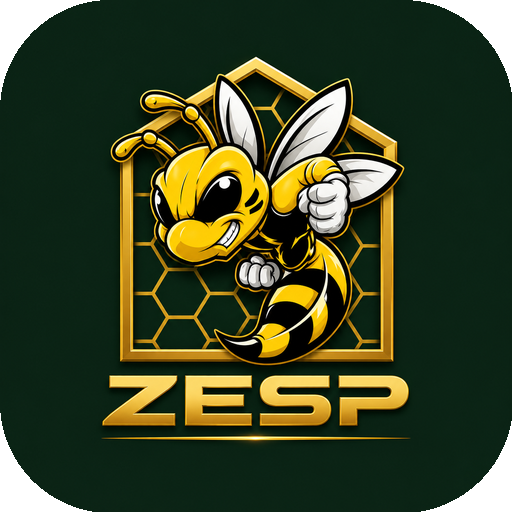
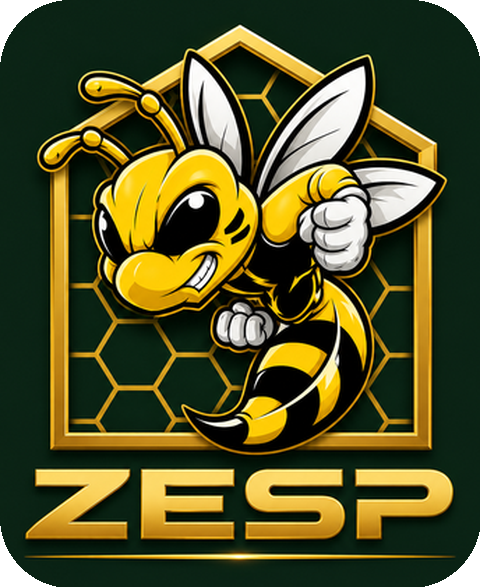
Docs: логотип крупно по центру, обрезка полей

diff --git a/README.md b/README.md
@@ -1,4 +1,8 @@
-# <img src="docs/zesp.png" alt="ZESP" width="52"> ZESP
+<p align="center">
+  <img src="docs/zesp.png" alt="ZESP" width="280">
+</p>
+
+# ZESP
 
 Сервер умного дома с веб-интерфейсом. Ставится на роутер с OpenWrt, Raspberry Pi, мини-ПК, обычный Windows-компьютер или Mac. Умеет: Zigbee-устройства, карту сети, автоматизацию (Blockly), сцены, 3D-план дома, MQTT + Home Assistant, Яндекс-колонки.
 
